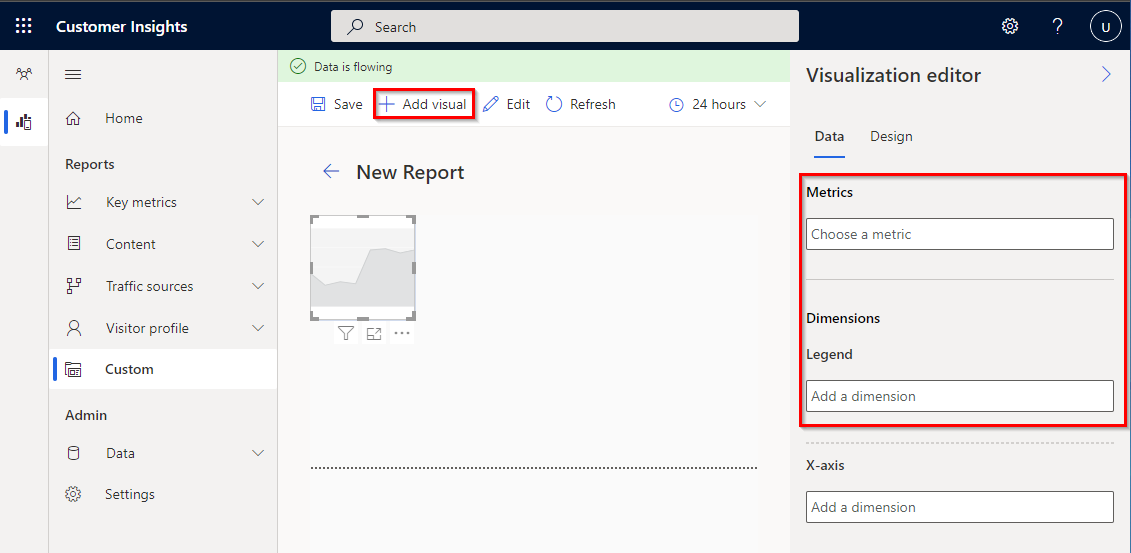
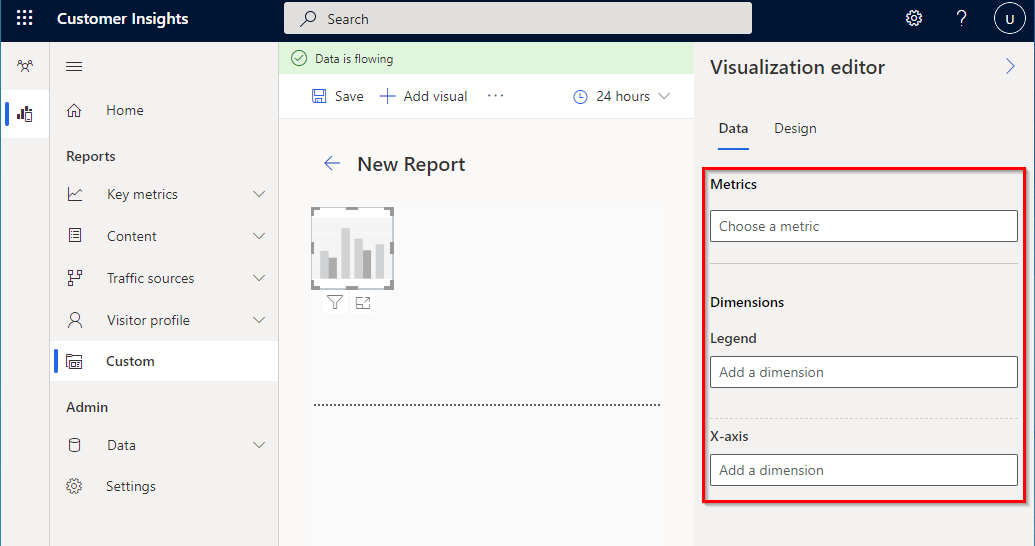
Updated custom reports article. Edited text and new images

diff --git a/ci-docs/engagement-insights/custom-reports.md b/ci-docs/engagement-insights/custom-reports.md
@@ -15,7 +15,7 @@ ms.manager: shellyha
 
 [!INCLUDE [cc-beta-prerelease-disclaimer](includes/cc-beta-prerelease-disclaimer.md)]
 
- In addition to out-of-box reports, you can build a custom report to help you understand user behavior. This article explain how to visualize (or design) a chart or table with data that you specify.
+ In addition to out-of-box reports, you can build a custom report with chart and table visualizations to help you understand user behavior. This article explains how to create a report with the data you need using table and chart visualizations.
 
 
 ## Create a custom report
@@ -26,30 +26,34 @@ ms.manager: shellyha
 
    :::image type="content" source="media/new-custom-report.png" alt-text="New custom reports":::
 
-1. Select **+ Add visual** in the command bar to create a table report or select a chart visualization from the **Report editor** pane.
+1. Decide the type of report you want to build:
+
+    - Select **Add visual** in the command bar to create a default table visualization.
+    - Or, select a column, bar, line, area, pie, donut, or table visualization from the **Report editor** pane.
 
    :::image type="content" source="media/choose-visualization.png" alt-text="First step for custom reports":::
 
-1. After you decide on a report, choose one of the available **Metrics** (e.g., page views) to display. Then add **Dimensions** to show on the visualization.
-
-1. To add another visualization, select **Add visual** in the command bar.     
-   By default, the new visualization is a table. Select **Design** in the **Visualization editor** pane to change the visualization type. Continue by choosing a metric and dimensions.
+1. In the **Data** pane,  choose one of the available **Metrics** (for example, page views) to display. Then add **Dimensions** (for example, country) to show on the visualization.
 
    :::image type="content" source="media/set-metrics-dimensions.png" alt-text="Specify metrics and dimensions for a visualization":::
 
-1. You can change the size and position of a visualization:
+1. Select **Design** in the **Visualization editor** pane to add **Title text**, and set the **Position**, **Data labels**, and **axis**.  You can also change the visualization by selecting another chart type.
+
+  :::image type="content" source="media/set-designs.png" alt-text="Editing visualizations for custom reports":::
+
+6. You can change the size and position of a visualization:
    - Select the visualization and then drag one of the corners or borders to adjust its size.
    - Select the visualization and move it to a new position. You can also use the arrow keys to change the position.
+1. To add another visualization, select **Add visual** in the command bar.
+1. After adding the visualizations you want for the report, select **Save** in the command bar.
 
-1. After adding all required visualizations, select **Save** in the command bar. 
-
-1. Provide a name for the custom report and select **Save** to create the custom report.
+1. Provide a name for the custom report and select **Save** to create it.
  
 ## Edit a custom report
 
 1. Go to **Reports** > **Custom** to access the custom report list.
 
-1. In the custom report list, select **...**. 
+1. In the custom report list, select.... 
 
 1. Choose **Edit details** to change the name of the report.
 
@@ -65,7 +69,7 @@ ms.manager: shellyha
 
 1. Go to **Reports** > **Custom** to access the custom report list.
 
-1. In the custom report list, select **...**.
+1. In the custom report list, select....
 
 1. Choose **Delete** to remove the report.
 
